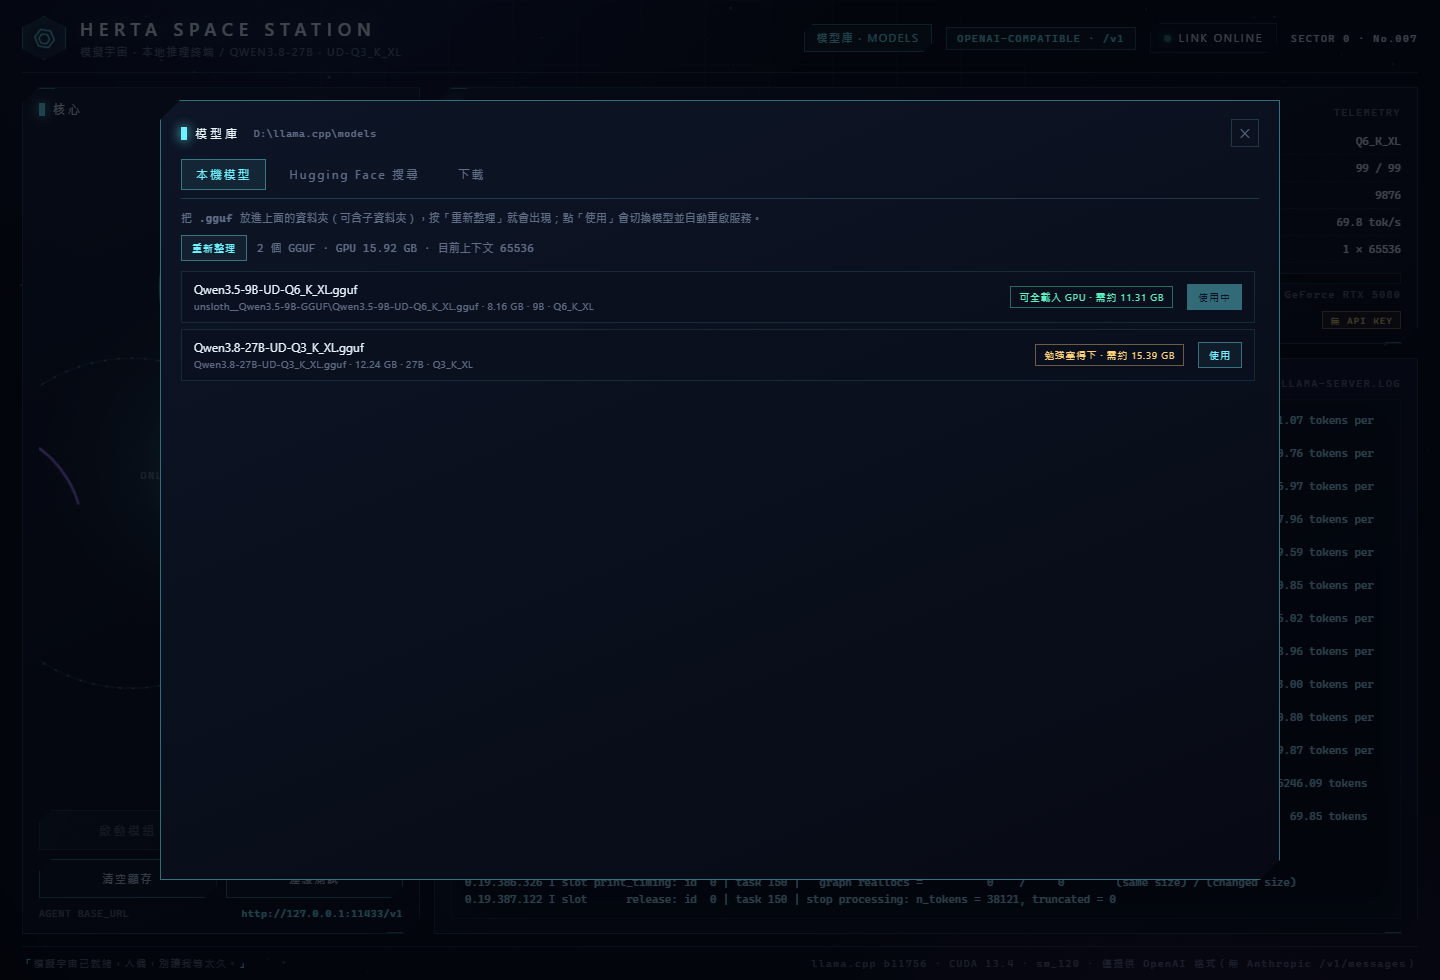
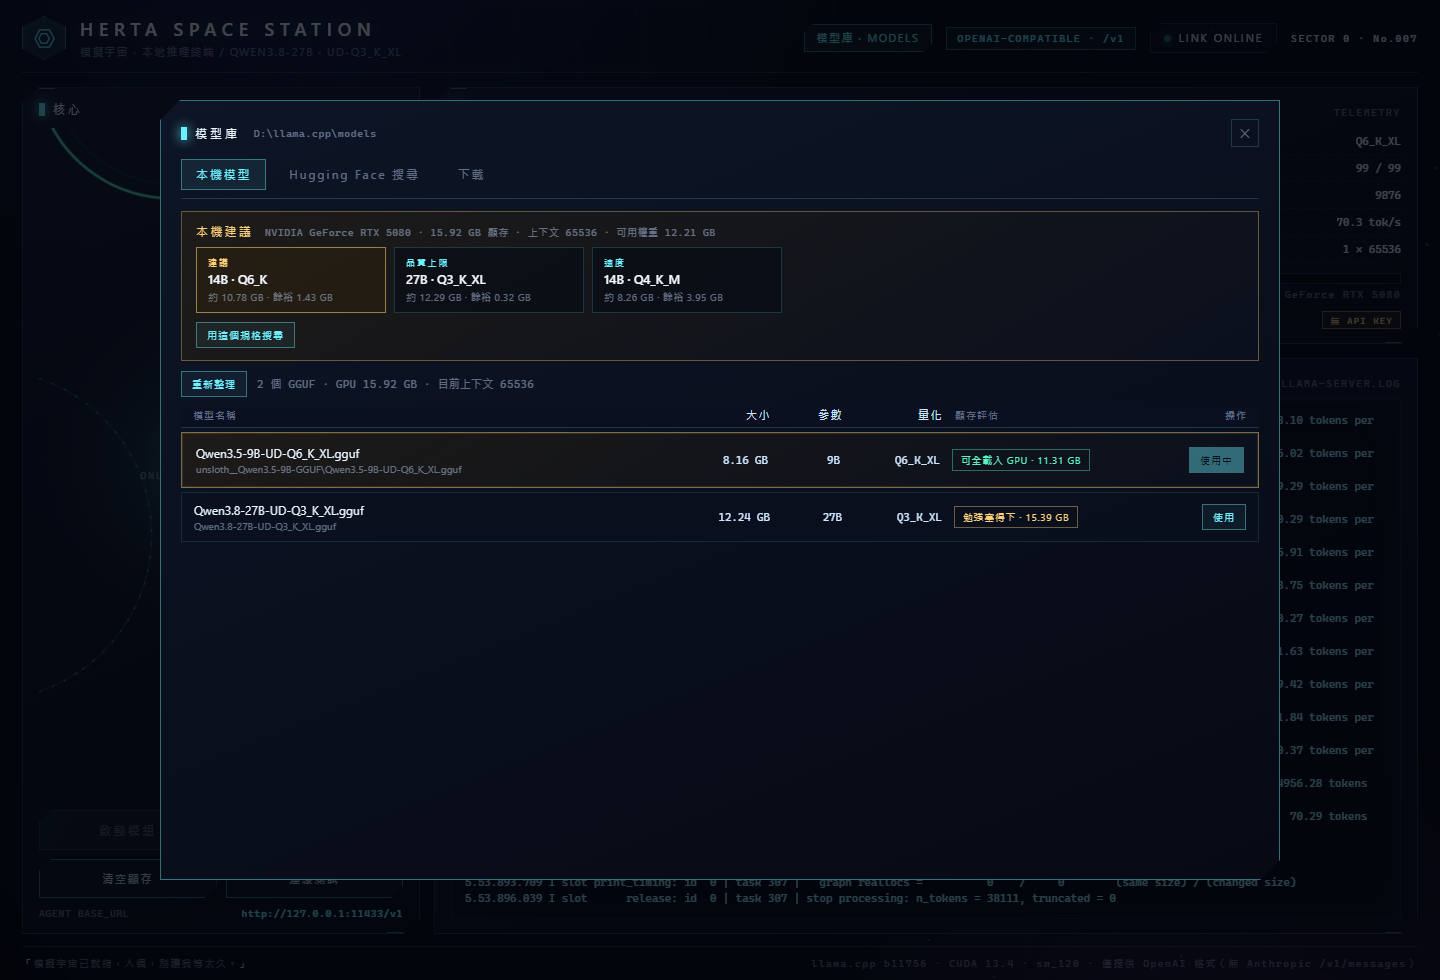
Model library: separate name/size columns and runtime hardware recommendation
- models.py: hardware() reads nvidia-smi with a Win32_VideoController fallback,
  recommend() derives weight budget from detected VRAM + ctx, emits 建議 /
  品質上限 / 速度 tiers and the closest local model
- server.py: GET /api/recommend
- ui.html: table layout with name/size/params/quant/VRAM columns, 本機建議 card

diff --git a/ui.html b/ui.html
@@ -236,18 +236,40 @@
   .mlist{flex:1;min-height:0;overflow:auto;display:flex;flex-direction:column;gap:6px;padding-right:4px}
   .mlist::-webkit-scrollbar{width:8px}
   .mlist::-webkit-scrollbar-thumb{background:rgba(111,242,255,.2);border-radius:8px}
-  .mrow{
-    display:flex;align-items:center;gap:14px;padding:9px 12px;border:1px solid rgba(111,242,255,.12);
-    background:rgba(10,16,30,.7);
-  }
-  .mrow:hover{border-color:rgba(111,242,255,.35);background:rgba(16,26,46,.85)}
+  .mtable{flex:1;min-height:0;overflow:auto;display:flex;flex-direction:column;gap:4px}
+  .mtable::-webkit-scrollbar{width:8px}
+  .mtable::-webkit-scrollbar-thumb{background:rgba(111,242,255,.2);border-radius:8px}
+  .mhead,.mtr{display:grid;grid-template-columns:minmax(0,1fr) 78px 60px 88px 196px 84px;gap:12px;align-items:center}
+  .mhead{font-size:9.5px;letter-spacing:.16em;color:var(--dim);padding:0 12px 5px;border-bottom:1px solid var(--line);position:sticky;top:0;background:#0a1020;z-index:1}
+  .mtr{padding:9px 12px;border:1px solid rgba(111,242,255,.12);background:rgba(10,16,30,.7);font-size:12px}
+  .mtr:hover{border-color:rgba(111,242,255,.35);background:rgba(16,26,46,.85)}
+  .mtr.reco{border-color:rgba(255,210,122,.45);box-shadow:0 0 0 1px rgba(255,210,122,.12) inset}
+  .mtr.hf{grid-template-columns:minmax(0,1fr) 84px 84px 96px}
+  .mtr.hff{grid-template-columns:minmax(0,1fr) 78px 88px 192px 88px}
+  .c-name{overflow:hidden;text-overflow:ellipsis;white-space:nowrap;color:#e8f4ff}
+  .c-name small{display:block;font-size:9.5px;color:var(--dim);letter-spacing:.03em;margin-top:2px;overflow:hidden;text-overflow:ellipsis}
+  .c-num{font-family:"Cascadia Mono",Consolas,monospace;font-size:11px;color:#cfe6ff;text-align:right;white-space:nowrap}
+  .c-act{text-align:right}
   .mname{flex:1;min-width:0;font-size:12px;color:#e8f4ff;overflow:hidden;text-overflow:ellipsis;white-space:nowrap}
   .mname small{display:block;font-size:10px;color:var(--dim);letter-spacing:.04em;margin-top:2px;overflow:hidden;text-overflow:ellipsis}
-  .mfit{font-size:10px;letter-spacing:.06em;padding:3px 8px;border:1px solid var(--line);white-space:nowrap}
+  .mfit{font-size:10px;letter-spacing:.06em;padding:3px 8px;border:1px solid var(--line);white-space:nowrap;display:inline-block}
   .mfit.ok{color:var(--ok);border-color:rgba(92,242,192,.4)}
   .mfit.tight{color:var(--gold);border-color:rgba(255,210,122,.4)}
   .mfit.over{color:var(--err);border-color:rgba(255,107,138,.4)}
   .mfit.unknown{color:var(--dim)}
+  /* recommendation card */
+  .reco{border:1px solid rgba(255,210,122,.35);background:linear-gradient(150deg,rgba(44,34,16,.55),rgba(10,16,30,.85));padding:12px 14px}
+  .reco-head{display:flex;align-items:baseline;gap:12px;margin-bottom:8px}
+  .reco-head .rt{font-size:11.5px;letter-spacing:.24em;color:var(--gold)}
+  .reco-head .rh{font-size:10px;color:var(--dim);letter-spacing:.05em}
+  .reco-body{display:flex;flex-wrap:wrap;gap:8px}
+  .pick{display:flex;flex-direction:column;gap:3px;padding:8px 11px;border:1px solid rgba(111,242,255,.18);background:rgba(6,10,20,.6);min-width:190px}
+  .pick.primary{border-color:rgba(255,210,122,.55);background:rgba(46,34,12,.45)}
+  .pick b{font-size:12.5px;color:#f4f7ff;font-weight:500}
+  .pick span{font-size:10px;color:var(--dim);letter-spacing:.04em}
+  .pick .tier{font-size:9px;letter-spacing:.2em;color:var(--cyan)}
+  .pick.primary .tier{color:var(--gold)}
+  .reco-actions{display:flex;gap:8px;margin-top:9px}
   .mini{font-size:10px;letter-spacing:.1em;padding:5px 10px;cursor:pointer;font-family:inherit;
         color:var(--cyan);border:1px solid rgba(111,242,255,.4);background:rgba(111,242,255,.06)}
   .mini:hover{background:rgba(111,242,255,.16)}
@@ -382,12 +404,21 @@
     </div>
 
     <div class="tabpane" id="paneLocal">
-      <div class="hintline mono">把 <b>.gguf</b> 放進上面的資料夾（可含子資料夾），按「重新整理」就會出現；點「使用」會切換模型並自動重啟服務。</div>
+      <div class="reco" id="recoCard">
+        <div class="reco-head">
+          <span class="rt">本機建議</span>
+          <span class="rh mono" id="recoHw">偵測中…</span>
+        </div>
+        <div class="reco-body" id="recoBody"></div>
+        <div class="reco-actions">
+          <button class="mini" id="btnRecoSearch">用這個規格搜尋</button>
+        </div>
+      </div>
       <div style="display:flex;gap:10px;align-items:center">
         <button class="mini" id="btnRefresh">重新整理</button>
         <span class="hintline mono" id="localMeta">—</span>
       </div>
-      <div class="mlist" id="localList"><div class="empty">掃描中…</div></div>
+      <div class="mtable" id="localList"></div>
     </div>
 
     <div class="tabpane hidden" id="paneSearch">
@@ -570,7 +601,7 @@ $("btnTest").onclick  = () => { act("/api/selftest"); };
 
 /* ---------- model library ---------- */
 const esc = s => String(s ?? "").replace(/[&<>"]/g, c => ({ "&":"&amp;","<":"&lt;",">":"&gt;",'"':"&quot;" }[c]));
-const LIB = { hf: [], filters: { provider: "all", params: "all", quant: "all" }, dlTimer: null, dlDone: false };
+const LIB = { hf: [], filters: { provider: "all", params: "all", quant: "all" }, dlTimer: null, dlDone: false, reco: null };
 
 const PROVIDERS = [["all","全部"],["Qwen","Qwen"],["DeepSeek","DeepSeek"],["Llama","Llama"],["Gemma","Gemma"],["Mistral","Mistral"],["GLM","GLM"],["其他","其他"]];
 const PARAM_BUCKETS = [["all","全部"],["s","≤4B"],["m","7–9B"],["l","13–14B"],["xl","27–32B"],["xxl","70B+"]];
@@ -605,6 +636,7 @@ function buildChips(hostId, options, key) {
 function libOpen() {
   $("libModal").classList.add("show");
   refreshLocal();
+  loadRecommend();
   if (!LIB.dlTimer) LIB.dlTimer = setInterval(pollDownload, 1000);
   pollDownload();
 }
@@ -619,25 +651,58 @@ function libTab(name) {
   });
 }
 
+const LOCAL_HEAD = `<div class="mhead"><span>模型名稱</span><span class="c-num">大小</span><span class="c-num">參數</span><span class="c-num">量化</span><span>顯存評估</span><span class="c-act">操作</span></div>`;
+
+async function loadRecommend() {
+  try {
+    const d = await (await fetch("/api/recommend", { cache: "no-store" })).json();
+    LIB.reco = d;
+    const hw = d.hardware || {};
+    $("recoHw").textContent = `${hw.gpu || "未知 GPU"} · ${hw.vram_gb || "?"} GB 顯存 · 上下文 ${d.ctx} · 可用權重 ${d.weights_budget_gb} GB`;
+    const body = $("recoBody");
+    body.innerHTML = "";
+    (d.picks || []).forEach((p, i) => {
+      const el = document.createElement("div");
+      el.className = "pick" + (i === 0 ? " primary" : "");
+      el.innerHTML = `<span class="tier">${esc(p.tier)}</span>
+        <b>${p.params_b}B · ${esc(p.quant)}</b>
+        <span>約 ${p.gb} GB · 餘裕 ${p.headroom_gb} GB</span>`;
+      body.appendChild(el);
+    });
+    if (!(d.picks || []).length) {
+      body.innerHTML = '<div class="pick"><b>偵測不到顯存</b><span>請手動挑選模型</span></div>';
+    }
+  } catch (e) {
+    $("recoHw").textContent = "偵測失敗：" + e.message;
+  }
+}
+
 async function refreshLocal() {
-  $("localList").innerHTML = '<div class="empty">掃描中…</div>';
+  $("localList").innerHTML = LOCAL_HEAD + '<div class="empty">掃描中…</div>';
   try {
     const d = await (await fetch("/api/models", { cache: "no-store" })).json();
     $("libDir").textContent = d.dir;
     const items = d.items || [];
     $("localMeta").textContent = `${items.length} 個 GGUF · GPU ${d.gpu_total_gb} GB · 目前上下文 ${d.ctx}`;
-    if (!items.length) { $("localList").innerHTML = '<div class="empty">這個資料夾還沒有 .gguf 檔，從「Hugging Face 搜尋」下載一個吧。</div>'; return; }
-    $("localList").innerHTML = "";
+    if (!items.length) {
+      $("localList").innerHTML = LOCAL_HEAD + '<div class="empty">這個資料夾還沒有 .gguf 檔，從「Hugging Face 搜尋」下載一個吧。</div>';
+      return;
+    }
+    const top = (LIB.reco && (LIB.reco.picks || [])[0]) || null;
+    $("localList").innerHTML = LOCAL_HEAD;
     items.forEach(m => {
-      const row = document.createElement("div");
-      row.className = "mrow";
       const fit = m.fit || {};
+      const star = top && String(m.params) === String(top.params_b) + "B" ? " ★" : "";
+      const row = document.createElement("div");
+      row.className = "mtr" + (m.active ? " reco" : "");
       row.innerHTML = `
-        <div class="mname">${esc(m.name)}<small>${esc(m.rel)} · ${m.gb} GB · ${esc(m.params)} · ${esc(m.quant)}${m.projector ? " · 視覺投影" : ""}</small></div>
-        <span class="mfit ${fit.level || "unknown"}">${esc(fit.label || "")}${fit.need ? " · 需約 " + fit.need + " GB" : ""}</span>
-        <button class="mini ${m.active ? "use" : ""}" ${m.active ? "disabled" : ""}>${m.active ? "使用中" : "使用"}</button>`;
-      const btn = row.querySelector("button");
-      btn.onclick = async () => {
+        <span class="c-name">${esc(m.name)}${star}<small>${esc(m.rel)}${m.projector ? " · 視覺投影" : ""}</small></span>
+        <span class="c-num">${m.gb} GB</span>
+        <span class="c-num">${esc(m.params)}</span>
+        <span class="c-num">${esc(m.quant)}</span>
+        <span><span class="mfit ${fit.level || "unknown"}">${esc(fit.label || "")}${fit.need ? " · " + fit.need + " GB" : ""}</span></span>
+        <span class="c-act"><button class="mini ${m.active ? "use" : ""}" ${m.active ? "disabled" : ""}>${m.active ? "使用中" : "使用"}</button></span>`;
+      row.querySelector("button").onclick = async () => {
         if (!confirm(`切換到 ${m.name}？\n模型會重新載入（約 10–30 秒）。`)) return;
         toast("切換模型中…");
         const r = await (await fetch(`/api/select?path=${encodeURIComponent(m.path)}`, { method: "POST" })).json();
@@ -647,7 +712,7 @@ async function refreshLocal() {
       $("localList").appendChild(row);
     });
   } catch (e) {
-    $("localList").innerHTML = `<div class="empty">讀取失敗：${esc(e.message)}</div>`;
+    $("localList").innerHTML = LOCAL_HEAD + `<div class="empty">讀取失敗：${esc(e.message)}</div>`;
   }
 }
 
@@ -676,13 +741,17 @@ function renderHf() {
   $("hfList").innerHTML = "";
   list.forEach(repo => {
     const row = document.createElement("div");
-    row.className = "mrow";
+    row.className = "mtr hf";
     row.innerHTML = `
-      <div class="mname">${esc(repo.id)}<small>${esc(repo.family)} · ${esc(repo.params)} · ⬇ ${repo.downloads} · ★ ${repo.likes} · ${esc(repo.updated)}</small></div>
-      <button class="mini">查看權重</button>`;
+      <span class="c-name">${esc(repo.id)}<small>${esc(repo.family)} · ${esc(repo.params)} · ${esc(repo.updated)}</small></span>
+      <span class="c-num">⬇ ${repo.downloads}</span>
+      <span class="c-num">★ ${repo.likes}</span>
+      <span class="c-act"><button class="mini">查看權重</button></span>`;
     const btn = row.querySelector("button");
     const holder = document.createElement("div");
-    holder.style.gridColumn = "1 / -1";
+    holder.style.display = "flex";
+    holder.style.flexDirection = "column";
+    holder.style.gap = "4px";
     btn.onclick = async () => {
       btn.disabled = true; btn.textContent = "載入中…";
       try {
@@ -691,12 +760,14 @@ function renderHf() {
         holder.innerHTML = "";
         (d.items || []).forEach(f => {
           const line = document.createElement("div");
-          line.className = "mrow";
-          line.style.margin = "4px 0 4px 18px";
+          line.className = "mtr hff";
+          line.style.marginLeft = "18px";
           line.innerHTML = `
-            <div class="mname">${esc(f.name)}<small>${f.gb} GB · ${esc(f.quant)} · ${esc(f.params)}</small></div>
-            <span class="mfit ${f.fit.level}">${esc(f.fit.label)}${f.fit.need ? " · 需約 " + f.fit.need + " GB" : ""}</span>
-            <button class="mini">下載</button>`;
+            <span class="c-name">${esc(f.name)}<small>${esc(f.params)}</small></span>
+            <span class="c-num">${f.gb} GB</span>
+            <span class="c-num">${esc(f.quant)}</span>
+            <span><span class="mfit ${f.fit.level}">${esc(f.fit.label)}${f.fit.need ? " · " + f.fit.need + " GB" : ""}</span></span>
+            <span class="c-act"><button class="mini">下載</button></span>`;
           line.querySelector("button").onclick = async () => {
             if (!confirm(`下載 ${f.name}（${f.gb} GB）到模型資料夾？`)) return;
             const r = await (await fetch(`/api/hf/download?repo=${encodeURIComponent(repo.id)}&file=${encodeURIComponent(f.name)}`, { method: "POST" })).json();
@@ -753,6 +824,12 @@ $("libModal").addEventListener("click", e => { if (e.target.id === "libModal") l
   $("tab" + t).onclick = () => libTab(t.toLowerCase());
 });
 $("btnRefresh").onclick = refreshLocal;
+$("btnRecoSearch").onclick = () => {
+  const hint = (LIB.reco && LIB.reco.query_hint) || "qwen3.5 9b";
+  libTab("search");
+  $("hfQ").value = hint;
+  hfSearch();
+};
 $("hfGo").onclick = hfSearch;
 $("hfQ").addEventListener("keydown", e => { if (e.key === "Enter") hfSearch(); });
 $("dlCancel").onclick = async () => {

diff --git a/models.py b/models.py
@@ -82,13 +82,132 @@ def params_of(text):
 
 
 def gpu_total_gb():
+    hw = hardware()
+    return hw["vram_gb"] or 16.0
+
+
+def hardware():
+    """Detect the GPU and its VRAM at runtime — never assume one machine."""
+    info = {"gpu": "unknown", "vram_gb": 0.0, "driver": "", "source": "none"}
     try:
         out = os.popen(
-            "nvidia-smi --query-gpu=memory.total --format=csv,noheader,nounits"
+            "nvidia-smi --query-gpu=name,memory.total,driver_version --format=csv,noheader,nounits"
         ).read().strip().splitlines()
-        return round(int(out[0]) / 1024, 2)
+        if out:
+            name, mem, drv = [x.strip() for x in out[0].split(",")[:3]]
+            info.update({
+                "gpu": name,
+                "vram_gb": round(int(mem) / 1024, 2),
+                "driver": drv,
+                "source": "nvidia-smi",
+            })
+            return info
     except Exception:
-        return 16.0
+        pass
+    try:  # AMD / Intel / no nvidia driver: DXGI adapter memory
+        out = os.popen(
+            "powershell -NoProfile -Command \"(Get-CimInstance Win32_VideoController | "
+            "Sort-Object AdapterRAM -Descending | Select-Object -First 1).Name\""
+        ).read().strip()
+        mem = os.popen(
+            "powershell -NoProfile -Command \"(Get-CimInstance Win32_VideoController | "
+            "Measure-Object -Property AdapterRAM -Maximum).Maximum\""
+        ).read().strip()
+        if out:
+            info.update({
+                "gpu": out,
+                "vram_gb": round(int(mem or 0) / (1024 ** 3), 2),
+                "source": "Win32_VideoController",
+            })
+    except Exception:
+        pass
+    return info
+
+
+# GB of weights per billion parameters, measured on real GGUF files
+QUANT_DENSITY = [
+    ("Q8_0", 0.99), ("Q6_K", 0.77), ("Q5_K_M", 0.68), ("Q4_K_M", 0.59),
+    ("Q3_K_XL", 0.455), ("Q2_K_XL", 0.37),
+]
+SANE_QUANTS = 4  # indexes 0..3 are the "don't wreck quality" range
+SIZE_CLASSES = [70, 32, 27, 24, 14, 13, 12, 9, 8, 7, 4, 3, 1.5]
+
+
+def recommend(ctx=65536):
+    """Work out what actually fits this GPU, at runtime.
+
+    Everything is derived from the detected VRAM: no per-machine constants.
+    """
+    hw = hardware()
+    total = hw["vram_gb"] or 0.0
+    overhead = round(1.9 + (ctx / 1000.0) * 0.019, 2)    # buffers + KV for this ctx
+    budget = round(total * 0.965, 2) if total else 0.0   # leave a little for the desktop
+    weights = round(max(0.0, budget - overhead), 2) if total else 0.0
+    ceiling_weights = round(max(0.0, total * 0.99 - overhead), 2) if total else 0.0
+
+    def best_for(cls, limit_idx, room):
+        for q, dens in QUANT_DENSITY[:limit_idx]:
+            gb = round(cls * dens, 2)
+            if gb <= room:
+                return q, gb
+        return None, None
+
+    picks = []
+    main = None
+    for cls in SIZE_CLASSES:
+        q, gb = best_for(cls, SANE_QUANTS, weights)      # Q8_0 … Q4_K_M
+        if q:
+            main = {"tier": "建議", "params_b": cls, "quant": q, "gb": gb,
+                    "headroom_gb": round(weights - gb, 2),
+                    "reason": f"{cls}B @ {q} fits fully on a {hw['vram_gb']} GB card with "
+                              f"{round(weights - gb, 2)} GB to spare."}
+            break
+    if main:
+        picks.append(main)
+
+    # quality ceiling: bigger model, lower quant, right up against the limit
+    for cls in SIZE_CLASSES:
+        if main and cls <= main["params_b"]:
+            continue
+        q, gb = best_for(cls, 5, ceiling_weights)        # … down to Q3_K_XL
+        if q:
+            picks.append({"tier": "品質上限", "params_b": cls, "quant": q, "gb": gb,
+                          "headroom_gb": round(ceiling_weights - gb, 2),
+                          "reason": f"{cls}B only fits at {q}; it sits close to the VRAM "
+                                    f"limit and generates noticeably slower."})
+            break
+
+    # speed: same size, lighter quant
+    if main:
+        gb = round(main["params_b"] * dict(QUANT_DENSITY)["Q4_K_M"], 2)
+        if gb <= weights:
+            picks.append({"tier": "速度", "params_b": main["params_b"], "quant": "Q4_K_M",
+                          "gb": gb, "headroom_gb": round(weights - gb, 2),
+                          "reason": f"same {main['params_b']}B model at Q4_K_M: "
+                                    f"{round((main['gb'] - gb) / main['gb'] * 100)}% smaller weights, "
+                                    f"faster tokens."})
+
+    local_best = None
+    for item in scan_local(ctx):
+        if item["projector"] or item["fit"]["level"] == "over":
+            continue
+        try:
+            params = float(str(item["params"]).replace("B", ""))
+        except ValueError:
+            params = 0.0
+        gap = abs(params - (main["params_b"] if main else params))
+        if local_best is None or gap < local_best[0]:
+            local_best = (gap, item)
+    return {
+        "hardware": hw,
+        "ctx": ctx,
+        "overhead_gb": overhead,
+        "budget_gb": budget,
+        "weights_budget_gb": weights,
+        "picks": picks,
+        "local_best": local_best[1] if local_best else None,
+        "query_hint": f"qwen3.5 {main['params_b']}b" if main else "",
+    }
 
 
 def estimate(weight_gb, ctx=65536):

diff --git a/server.py b/server.py
@@ -396,6 +396,8 @@ class Handler(BaseHTTPRequestHandler):
                 self._send(200, {"ok": False, "message": str(exc), "items": []})
         elif path == "/api/download/status":
             self._send(200, models.download_state())
+        elif path == "/api/recommend":
+            self._send(200, models.recommend(CTX))
         else:
             self._send(404, {"ok": False, "message": "not found"})
 

diff --git a/README.md b/README.md
@@ -32,7 +32,7 @@ Click **模型庫 · MODELS** in the header. Three tabs:
 
 | Tab | What it does |
 | --- | --- |
-| 本機模型 | Lists every `*.gguf` under the models folder (default `<exe dir>\models`, override with `HERTA_MODELS_DIR`). Shows size, params, quant, and whether it fits: needs `weights + 1.9 GB + ctx/1000 × 0.019 GB` of VRAM. **使用** swaps the model and restarts the server (~10–30 s). |
+| 本機模型 | Scans every `*.gguf` under the models folder (default `<exe dir>\models`, override with `HERTA_MODELS_DIR`) into a table with **separate columns for name, size, parameters, quantisation and VRAM verdict**. **使用** swaps the model and restarts the server (~10–30 s). |
 | Hugging Face 搜尋 | Searches `huggingface.co/api/models?filter=gguf`. Filter chips for vendor (Qwen / DeepSeek / Llama / Gemma / Mistral / GLM), parameter bucket (≤4B, 7–9B, 13–14B, 27–32B, 70B+), and quantisation (Q4–Q8). Each repo expands to its GGUF files with size + fit estimate. |
 | 下載 | Live download progress (percent, GB, MB/s), cancel button. A finished download is written to `models/<owner>__<repo>/` and becomes the active model. |
 
@@ -40,6 +40,18 @@ Dropping a `.gguf` in by hand works too — hit **重新整理**.
 Handy shortcut: opening `http://127.0.0.1:8899/#models` jumps straight into the library.
 
 The default model is whatever `HERTA_MODEL` points at until you pick one in the library; the choice is stored next to the EXE in `active-model.json`.
+### Runtime recommendation
+
+The **本機建議** card is computed on every open from the hardware it finds — nothing is hard-coded per machine, so it adapts to whatever GPU the user has:
+
+1. VRAM is read from `nvidia-smi`; if that is missing it falls back to `Win32_VideoController` (AMD/Intel).
+2. Context overhead is derived from the configured context: `1.9 GB buffers + ctx/1000 × 0.019 GB KV`.
+3. The weight budget is `VRAM × 0.965 − overhead` (a hard ceiling tier uses `× 0.99`).
+4. Quant density is measured (GB per billion params): Q8_0 0.99, Q6_K 0.77, Q5_K_M 0.68, Q4_K_M 0.59, Q3_K_XL 0.455, Q2_K_XL 0.37.
+5. Three tiers come out of that: **建議** (largest size class that still fits at Q4_K_M or better), **品質上限** (bigger model pushed down to Q3, right against the limit) and **速度** (same size at Q4_K_M).
+
+Example on a 16 GB RTX 5080 at 64k context: weights budget 12.21 GB → 14B Q6_K (10.78 GB) recommended, 27B Q3_K_XL (12.29 GB) as the quality ceiling, 14B Q4_K_M (8.26 GB) for speed.
+
 
 ## Requirements
 
